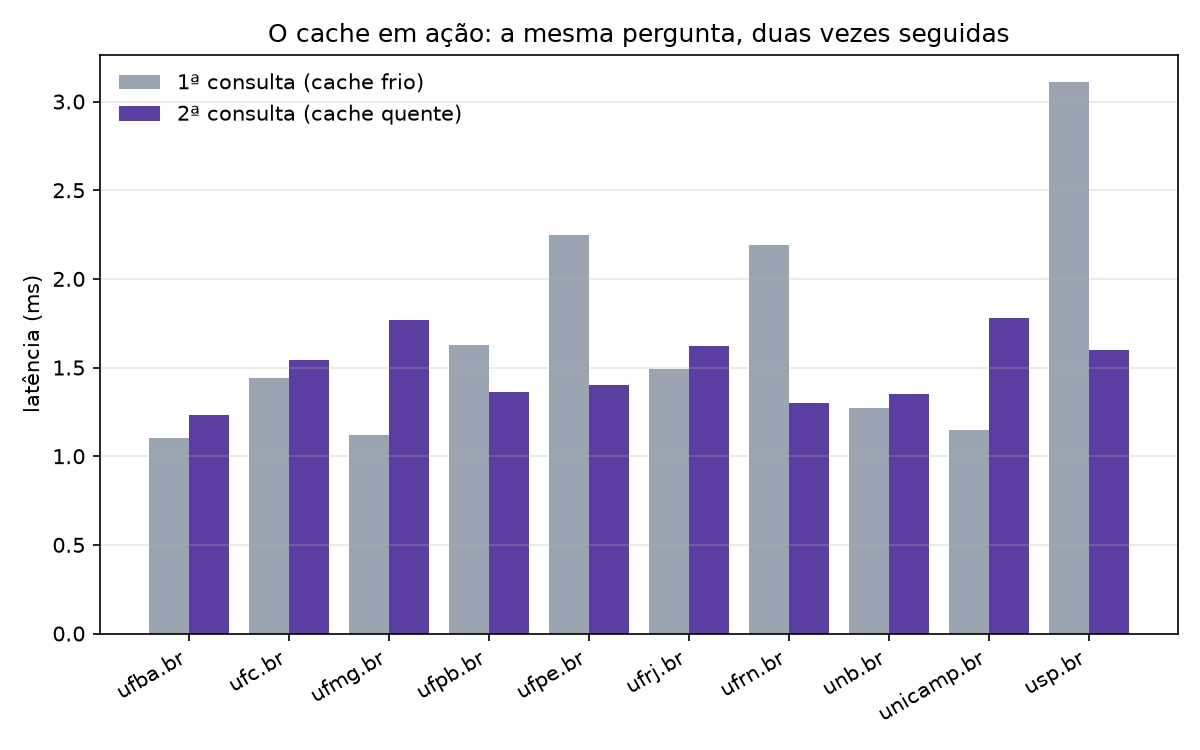
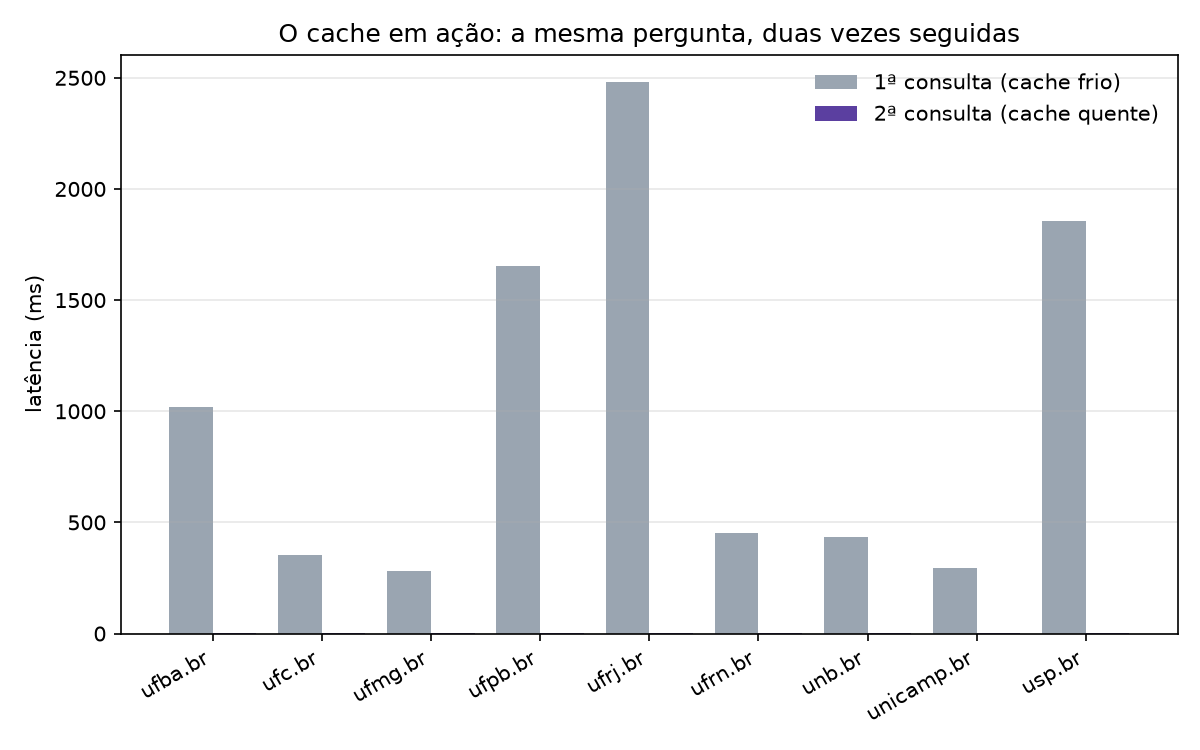
Refaz o teste de cache e completa o módulo 7
O teste de cache da medição principal comparou quente com quente: o
medir.py roda medir_cache() no começo de cada execução, e a medição
completa veio logo depois do teste rápido, sem novo restart, com os 10
nomes ainda no cache. O teste foi refeito sozinho, depois de
docker compose restart borda resolvedor, na máquina da Jamily
(27/11/2026, 12:42 UTC): frio 453,5 ms e quente 2,0 ms de mediana. O
analisar.py gerou de novo o cache_frio_quente.png; resumo.csv,
medicoes.csv e mediana_por_protocolo.png não mudaram.

O arquivo do módulo 7 estava cortado no meio da seção 7. Agora tem a
lista de arquivos, as respostas às 4 perguntas com as medianas do
resumo.csv e do cache.csv novo, a explicação do atraso do DoT local
(Nagle com ACK atrasado, visto no dot.pcap da issue #6) e a seção
Como explicar no vídeo.

O arquivo da issue #4 passa a se chamar borda-cache-metricas.md, porque
o módulo 6 é o GeoDNS. Nenhum link apontava para o nome antigo.

Nenhum arquivo de configuração do laboratório foi alterado.

diff --git a/docs/evidencias/modulo-7-medicao-graficos.md b/docs/evidencias/modulo-7-medicao-graficos.md
@@ -138,22 +138,198 @@ O script calculou a quantidade de medições, a mediana e o percentil 95 (P95) d
 
 ## 6. Análise do cache
 
-O teste de cache foi realizado com dez domínios, consultando cada um duas vezes: primeiro com cache frio e depois com cache quente.
+### Primeira execução (descartada)
 
-O arquivo `cache.csv` contém 20 registros.
+Na primeira execução, o `cache.csv` mostrou mediana de **1,5 ms** tanto para o cache frio quanto
+para o quente, ou seja, nenhuma diferença. O resultado estava errado por causa da ordem dos passos.
 
-Resultado das medianas:
+O `medir.py` faz o teste de cache **no começo de cada execução** (a função `main()` chama
+`medir_cache()` antes das 2.400 consultas). Os caches foram esvaziados antes do teste rápido
+(seção 1), e o teste rápido consultou os 10 nomes do teste de cache. Em seguida, a medição completa
+rodou sem um novo `restart`. Quando ela começou, os 10 nomes ainda estavam guardados na borda
+(`cache 300`, até 5 minutos) e no Unbound. Assim, a consulta "fria" também saiu da memória, e o
+teste comparou cache quente com cache quente.
 
-```text
-Cache
-frio      1.5
-quente    1.5
+### Teste de cache refeito
+
+O teste foi refeito em 27/11/2026, a partir das 12:42 UTC, na **máquina da Jamily** (outra rede,
+não a mesma da medição principal). Só o teste de cache foi repetido, sem refazer as 2.400 consultas.
+Primeiro os caches foram esvaziados; depois a função `medir_cache()` foi chamada sozinha:
+
+```powershell
+docker compose restart borda resolvedor
+docker compose exec cliente-a python3 -c "import sys; sys.path.insert(0, '/lab/medicao'); import medir; medir.medir_cache()"
+docker compose exec cliente-a python3 /lab/medicao/analisar.py
 ```
 
-As medianas foram iguais, ambas de 1,5 ms. Portanto, nessa execução, não foi observada diferença na mediana entre as consultas com cache frio e quente.
+Novo `medicao/dados/cache.csv`:
+
+```text
+nome,cache,ms
+usp.br,frio,1854.47
+usp.br,quente,1.55
+unicamp.br,frio,292.97
+unicamp.br,quente,1.71
+ufpe.br,quente,110.89
+ufba.br,frio,1020.23
+ufba.br,quente,2.07
+ufrn.br,frio,453.51
+ufrn.br,quente,2.78
+ufc.br,frio,351.76
+ufc.br,quente,1.99
+ufmg.br,frio,281.99
+ufmg.br,quente,1.31
+unb.br,frio,433.75
+unb.br,quente,1.92
+ufrj.br,frio,2480.86
+ufrj.br,quente,1.23
+ufpb.br,frio,1653.5
+ufpb.br,quente,2.03
+```
+
+Saída do `analisar.py` para o cache:
+
+```text
+Cache (mediana em ms):
+cache
+frio      453.5
+quente      2.0
+```
+
+Agora a diferença aparece: a primeira consulta de cada nome levou de **282 a 2.481 ms**, porque o
+resolvedor precisou buscar a resposta na internet, e a segunda levou de **1,2 a 2,8 ms**, porque
+veio da memória (sem contar o `ufpe.br`, explicado abaixo). Nas medianas, são **453,5 ms contra 2,0 ms**.
+
+Uma observação sobre `ufpe.br`: a primeira consulta passou do tempo limite de 3 segundos do
+`medir.py` e não foi registrada. Quando a segunda chegou, o resolvedor ainda estava terminando a
+busca, e ela levou 110,89 ms. Por isso o `ufpe.br` não aparece no gráfico, e o seu valor "quente"
+entra na mediana do cache quente, que tem 10 valores contra 9 do frio.
+
+O `analisar.py` gerou de novo o `cache_frio_quente.png`. O `resumo.csv`, o `medicoes.csv` e o
+`mediana_por_protocolo.png` não mudaram.
+
+![Cache frio x quente](../../medicao/dados/cache_frio_quente.png)
+
+*As barras cinza são a primeira consulta de cada nome (cache frio). As do cache quente ficam em
+torno de 2 ms e, nessa escala, praticamente não aparecem: essa é a diferença que o cache faz.*
 
 ## 7. Arquivos gerados
 
-Os arquivos foram salvos em `medicao/dados/`:
+Os arquivos ficam em `medicao/dados/`:
 
-- `medicoes
+- `medicoes.csv`: as 2.400 consultas da medição completa (rodada, alvo, protocolo, nome, tempo e
+  se deu certo).
+- `cache.csv`: o teste de cache refeito, com 19 medições (10 nomes, menos a primeira de `ufpe.br`).
+- `resumo.csv`: quantidade de medições, mediana e percentil 95 de cada alvo e protocolo.
+- `mediana_por_protocolo.png`: gráfico das medianas por alvo e protocolo.
+- `cache_frio_quente.png`: gráfico do teste de cache.
+
+![Latência mediana por protocolo](../../medicao/dados/mediana_por_protocolo.png)
+
+## 8. Respostas às 4 perguntas
+
+Todos os números são medianas do `resumo.csv` (medição principal, na rede da Sarah) e do
+`cache.csv` (teste de cache refeito, na rede da Jamily).
+
+### 1. Quanto o DoT e o DoH com conexão nova custam a mais que o UDP?
+
+| Alvo | UDP (ms) | DoT (ms) | DoT a mais | DoH nova (ms) | DoH nova a mais |
+| --- | ---: | ---: | ---: | ---: | ---: |
+| Local (borda) | 1,4 | 47,1 | +45,7 | 7,0 | +5,6 |
+| Cloudflare | 65,1 | 100,1 | +35,0 | 106,9 | +41,8 |
+| Google | 47,2 | 220,0 | +172,8 | 224,5 | +177,3 |
+| Quad9 | 22,7 | 100,2 | +77,5 | 103,1 | +80,4 |
+
+Nos resolvedores públicos, o DoT e o DoH com conexão nova custam de **35 a 177 ms a mais** que o
+UDP. O UDP manda a pergunta direto. Com conexão nova, antes da pergunta é preciso abrir a conexão
+TCP e negociar o TLS, o que soma idas e voltas pela rede. A diferença varia bastante entre os
+provedores, e a medição sozinha não mostra o porquê.
+
+**O caso estranho do DoT na borda local.** Na própria borda, o DoT deu 47,1 ms, enquanto o DoH com
+conexão nova, que também abre TCP e TLS, deu só 7,0 ms. A diferença de cerca de 40 ms não é o custo
+da criptografia. Ela aparece na captura `dot.pcap` da issue #6 (`modulo-4-dot-doh.md`):
+
+```text
+00:00:00.001978 IP 172.21.0.100.36955 > 172.21.0.53.853: Flags [P.], seq 304:368, ... length 64
+00:00:00.043242 IP 172.21.0.53.853 > 172.21.0.100.36955: Flags [.], ack 368, ... length 0
+00:00:00.000021 IP 172.21.0.100.36955 > 172.21.0.53.853: Flags [P.], seq 368:449, ... length 81
+```
+
+(`tcpdump -nr /lab/capturas/dot.pcap -ttt`, pacotes 8 a 10: cada tempo é o intervalo desde o
+pacote anterior; as opções TCP de cada linha foram trocadas por `...`.)
+
+O cliente envia o fim do handshake TLS (64 bytes) e depois **espera 43 ms** até o servidor
+confirmar o recebimento (o ACK) para só então mandar a pergunta (81 bytes). É o encontro de dois
+mecanismos do TCP:
+
+- **Algoritmo de Nagle**, no cliente: enquanto um pacote pequeno não foi confirmado, o próximo
+  pacote pequeno fica guardado esperando.
+- **ACK atrasado**, no servidor: o servidor não confirma na hora; ele espera algumas dezenas de
+  milissegundos para aproveitar e mandar a confirmação junto com uma resposta.
+
+Um fica esperando o outro até o tempo do ACK atrasado acabar. No DoH, isso não acontece: na
+captura `doh.pcap`, o cliente manda três pacotes seguidos (64, 61 e 190 bytes) em menos de 0,2 ms,
+sem esperar confirmação. Por isso o DoH novo local ficou bem mais rápido.
+
+Uma ressalva: a captura da issue #6 foi feita com o `dig`, e não com o `medir.py`. Não capturamos
+o tráfego do `medir.py`. O que dá para dizer é que o atraso de cerca de 40 ms medido aqui bate com
+o atraso visto na captura e aparece em toda consulta (o P95 do DoT local é 50,2 ms, bem perto da
+mediana).
+
+### 2. Reaproveitar a conexão do DoH chega perto do UDP?
+
+| Alvo | UDP (ms) | DoH reuso (ms) | DoH nova (ms) |
+| --- | ---: | ---: | ---: |
+| Local (borda) | 1,4 | 3,9 | 7,0 |
+| Cloudflare | 65,1 | 27,4 | 106,9 |
+| Google | 47,2 | 51,5 | 224,5 |
+| Quad9 | 22,7 | 23,4 | 103,1 |
+
+**Sim.** Com a conexão aberta, não há handshake a cada pergunta, e o DoH reaproveitado ficou a
+poucos milissegundos do UDP: +2,5 ms na borda, +4,3 ms no Google e +0,7 ms no Quad9. Na Cloudflare,
+o DoH reaproveitado (27,4 ms) foi até **mais rápido** que o UDP (65,1 ms). A medição não explica
+essa diferença. Ela vale como observação, não como regra.
+
+O P95 do DoH reaproveitado é bem maior que a mediana nos públicos (por exemplo, 120,5 ms na
+Cloudflare). A maioria das consultas é rápida, mas algumas ficam lentas.
+
+### 3. Qual a diferença entre cache frio e quente?
+
+No teste refeito, a mediana do **cache frio foi 453,5 ms** e a do **cache quente foi 2,0 ms**,
+mais de 200 vezes menos. A primeira consulta de um nome obriga o resolvedor a perguntar à
+internet. As seguintes, enquanto o TTL não acaba, saem da memória da borda.
+
+### 4. Qual resolvedor público foi mais rápido daqui, e qual data center respondeu?
+
+No UDP, o **Quad9** foi o mais rápido (**22,7 ms**), seguido do Google (47,2 ms) e da Cloudflare
+(65,1 ms). No DoH reaproveitado, o Quad9 também ficou na frente (23,4 ms), com a Cloudflare perto
+(27,4 ms). No DoT, Cloudflare (100,1 ms) e Quad9 (100,2 ms) praticamente empataram.
+
+Pelo `id.server` (seção 3), a Cloudflare respondeu de `for01` e o Quad9 de `res700.qfor1`. Os dois
+identificadores têm "for", que é o código do aeroporto de Fortaleza. Isso sugere que os dois
+responderam de Fortaleza, mas os provedores não documentam esse formato, então é uma leitura do
+nome, e não uma confirmação. Esse é o efeito do anycast: o mesmo IP (1.1.1.1 ou 9.9.9.9) é
+anunciado em vários lugares, e a rede leva a consulta ao data center mais próximo. O Google não
+informa o data center por esse caminho: testado na máquina da Jamily, o
+`dig @8.8.8.8 id.server CH TXT` responde `status: SERVFAIL`, sem resposta.
+
+## 9. Como explicar no vídeo
+
+Sugestão de fala, com os dois gráficos na tela:
+
+> Medimos 2.400 consultas: quatro resolvedores, a nossa borda, a Cloudflare, o Google e o Quad9,
+> por quatro protocolos. Usamos a mediana, porque uma consulta lenta isolada puxaria a média para
+> cima.
+>
+> Cifrar com conexão nova custa caro: nos resolvedores públicos, o DoT e o DoH novos levaram de
+> 35 a 177 milissegundos a mais que o UDP, por causa do handshake TCP e TLS antes da pergunta. Mas,
+> reaproveitando a conexão, o DoH ficou a poucos milissegundos do UDP. É o que o navegador faz na
+> prática: abre a conexão uma vez e manda várias perguntas.
+>
+> Um detalhe curioso: na nossa borda, o DoT deu 47 milissegundos e o DoH novo, só 7. Não é a
+> criptografia. Na captura, o cliente fica 43 milissegundos parado esperando a confirmação do
+> servidor antes de mandar a pergunta. É o algoritmo de Nagle somado ao ACK atrasado do TCP.
+>
+> O cache faz a maior diferença de todas: na mediana, a primeira consulta levou 453
+> milissegundos, e a segunda, 2. E pelo `id.server`, a Cloudflare e o Quad9 responderam de um data center que parece
+> ser o de Fortaleza: é o anycast levando a consulta para perto de nós.
